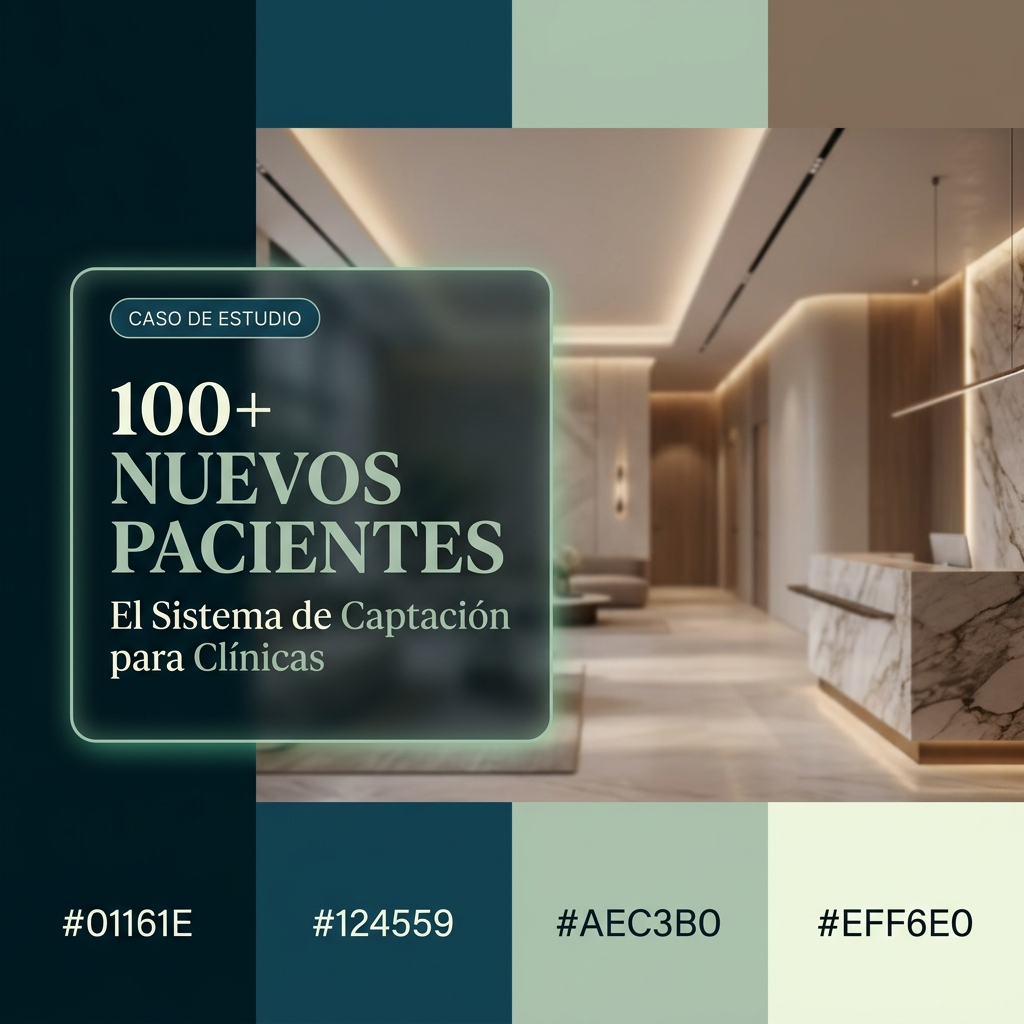
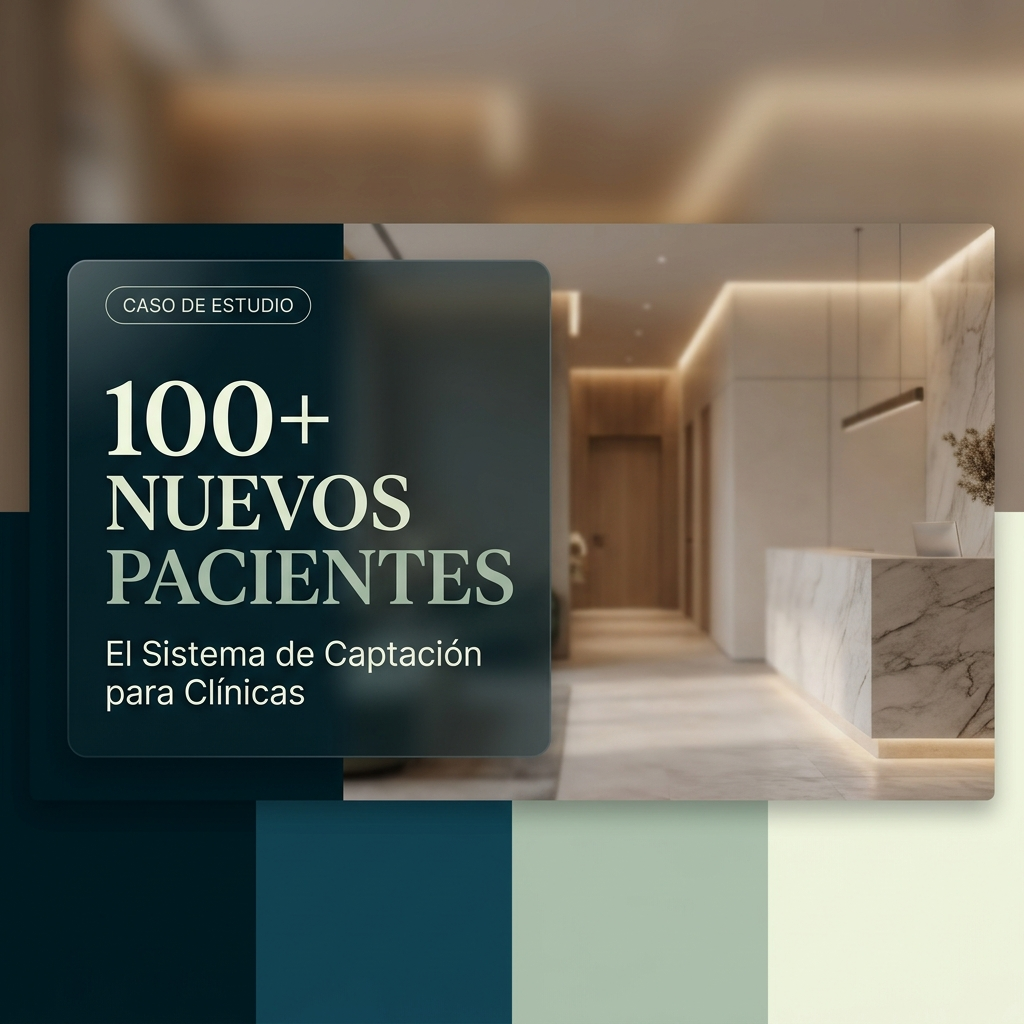
feat(assets): remove color palette bar from the bottom of video thumbnail

diff --git a/social-media-assets/video-thumbnail.html b/social-media-assets/video-thumbnail.html
@@ -254,8 +254,6 @@
             </div>
         </div>
 
-        <!-- Bottom accent bar -->
-        <div class="accent-bar"></div>
     </div>
 </body>
 
